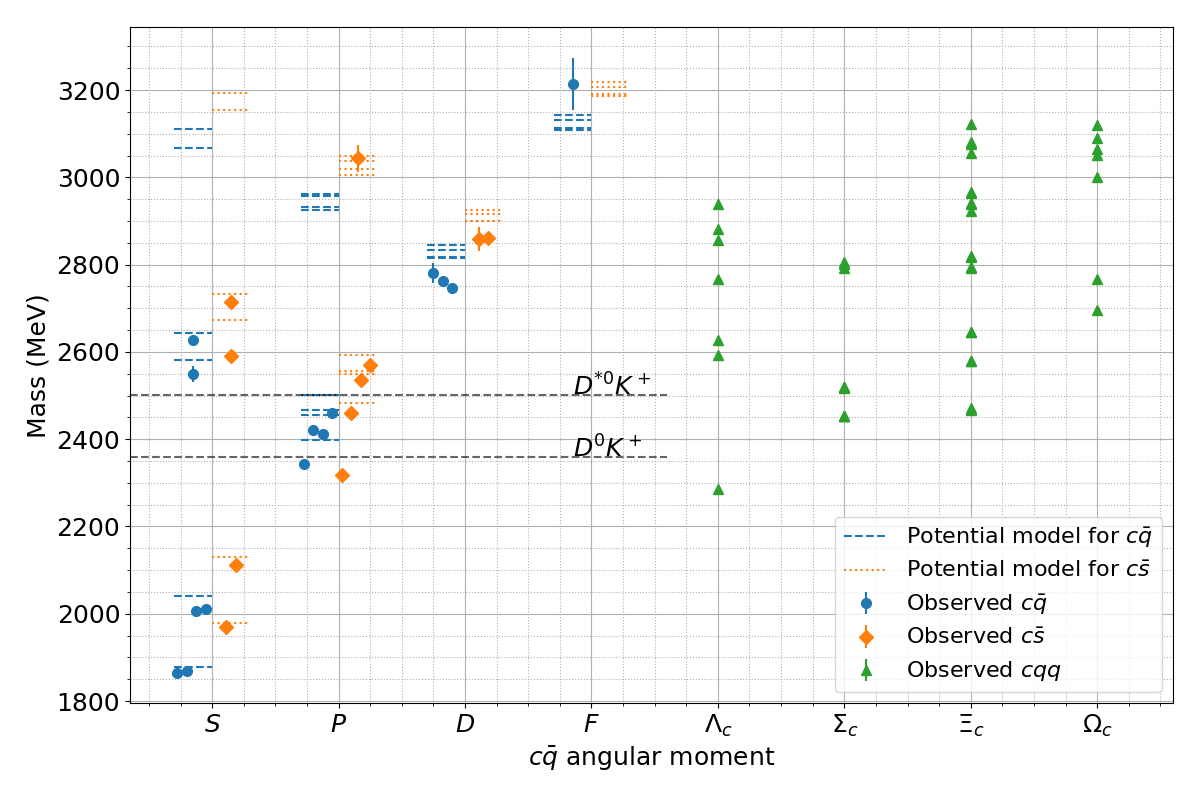
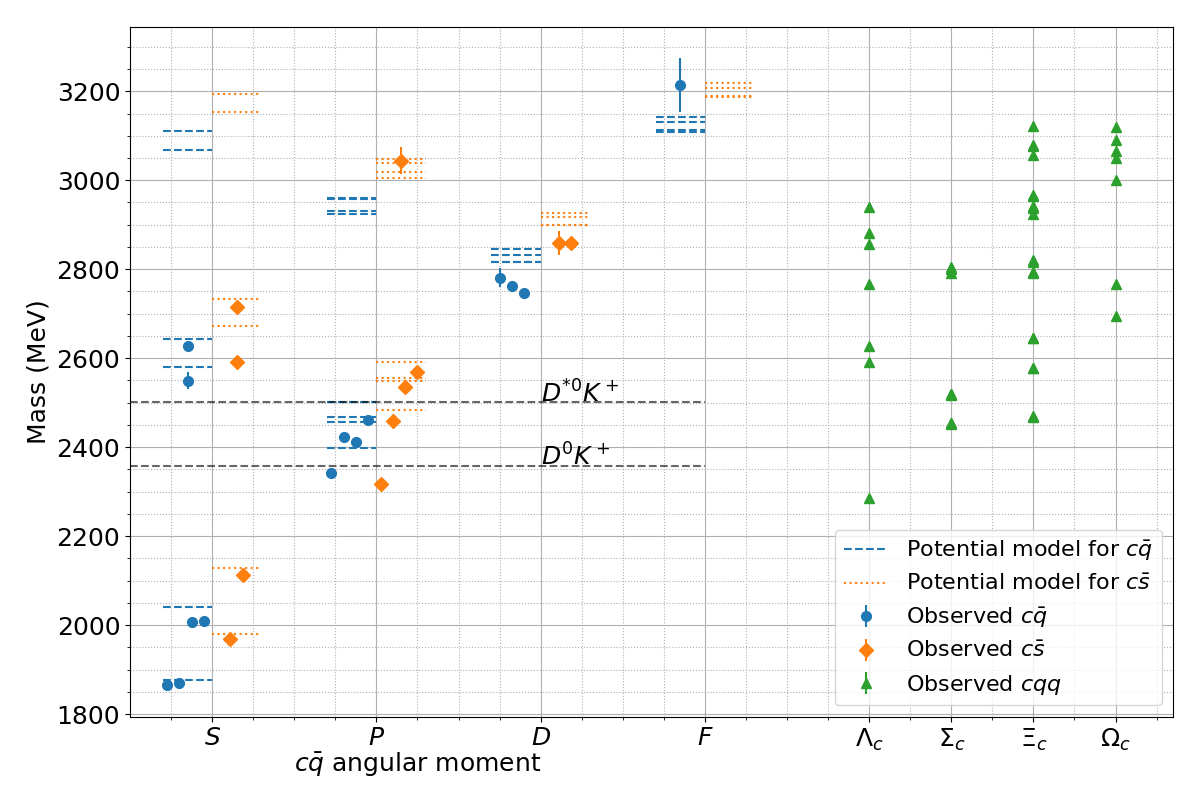
baryons tuned

diff --git a/spectrumplot.py b/spectrumplot.py
@@ -96,12 +96,14 @@ def godfrey_plot():
 def draw_meson_predictions(ax, col1, col2):
     ax.plot([5, 5], [2400, 2400], '--', color=col1, label=r'Potential model for $c\bar{q}$')
     ax.plot([5, 5], [2400, 2400], ':', color=col2, label=r'Potential model for $c\bar{s}$')
+
     for state, [name, mass] in PREDICTIED.items():
-        ax.plot(state2line(state)[0], [mass, mass], '--', color=col1)
+        x = state2line(state)[0]
+        ax.plot([x[0] - 0.3, x[1] - 0.3], [mass, mass], '--', color=col1)
 
     for state, [name, mass] in PREDICTIED_DS.items():
         x = state2line(state)[0]
-        ax.plot([x[0] + 0.6, x[1] + 0.6], [mass, mass], ':', color=col2)
+        ax.plot([x[0] + 0.3, x[1] + 0.3], [mass, mass], ':', color=col2)
 
 
 def draw_meson_observed(ax, col1, col2):
@@ -117,14 +119,14 @@ def draw_meson_observed(ax, col1, col2):
             if '2' == data['assignment'][1]:
                 cnts[lbl] = -0.15
             cnts[lbl] += 0.15
-            xs.append(spdf[0] + 0.9 + cnts[lbl])
+            xs.append(spdf[0] + 0.6 + cnts[lbl])
             ys.append(mass)
             yerrs.append(dmass)
         else:
             if '2' == data['assignment'][1]:
                 cnt[lbl] = -0.15
             cnt[lbl] += 0.15
-            x.append(spdf[0] + 0.3 + cnt[lbl])
+            x.append(spdf[0] + cnt[lbl])
             y.append(mass)
             yerr.append(dmass)
 
@@ -134,8 +136,8 @@ def draw_meson_observed(ax, col1, col2):
 
 def draw_DK_thresholds(ax):
     for _, thr in thresholds.items(): 
-        ax.plot((0, 8.5), [thr[1], thr[1]], 'k--', alpha=0.6)
-        ax.text(7, thr[1], thr[0])
+        ax.plot((0, 7), [thr[1], thr[1]], 'k--', alpha=0.6)
+        ax.text(5, thr[1], thr[0])
 
 
 def bary_x(lbl):
@@ -156,7 +158,7 @@ def draw_baryons_observed(ax, col1, col2, col3, col4):
         idx = bary_x(lbl)
         if idx < 0:
             continue
-        x[idx].append(9.3 + 2 * idx)
+        x[idx].append(9 + idx)
         y[idx].append(data['massPDG'][0])
         yerr[idx].append(data['massPDG'][1])
     
@@ -176,12 +178,13 @@ def all_charm_plot():
     draw_baryons_observed(ax, col3, col3, col3, col3)
 
     xlabels = [fr'${item}$' for item in 'SPDF'] + [r'$\Lambda_c$', r'$\Sigma_c$', r'$\Xi_c$', r'$\Omega_c$']
-    xticks = 1.3 + 2 * np.arange(len(xlabels))
+    xticks = list(range(1, 8, 2)) + list(range(9, 13))
 
     ax.legend(fontsize=16)
     ax.set_xticks(xticks, xlabels)
-    ax.set_xlim((0, xticks[-1] + 1.2))
-    ax.set_xlabel(r'$c\bar{q}$ angular moment')
+    ax.set_xlim((0, xticks[-1] + 0.7))
+    # ax.set_xlabel(r'$c\bar{q}$ angular moment')
+    plt.text(2, 1670, r'$c\bar{q}$ angular moment')
     ax.set_ylabel('Mass (MeV)')
     ax.minorticks_on()
     ax.grid(which='major')
